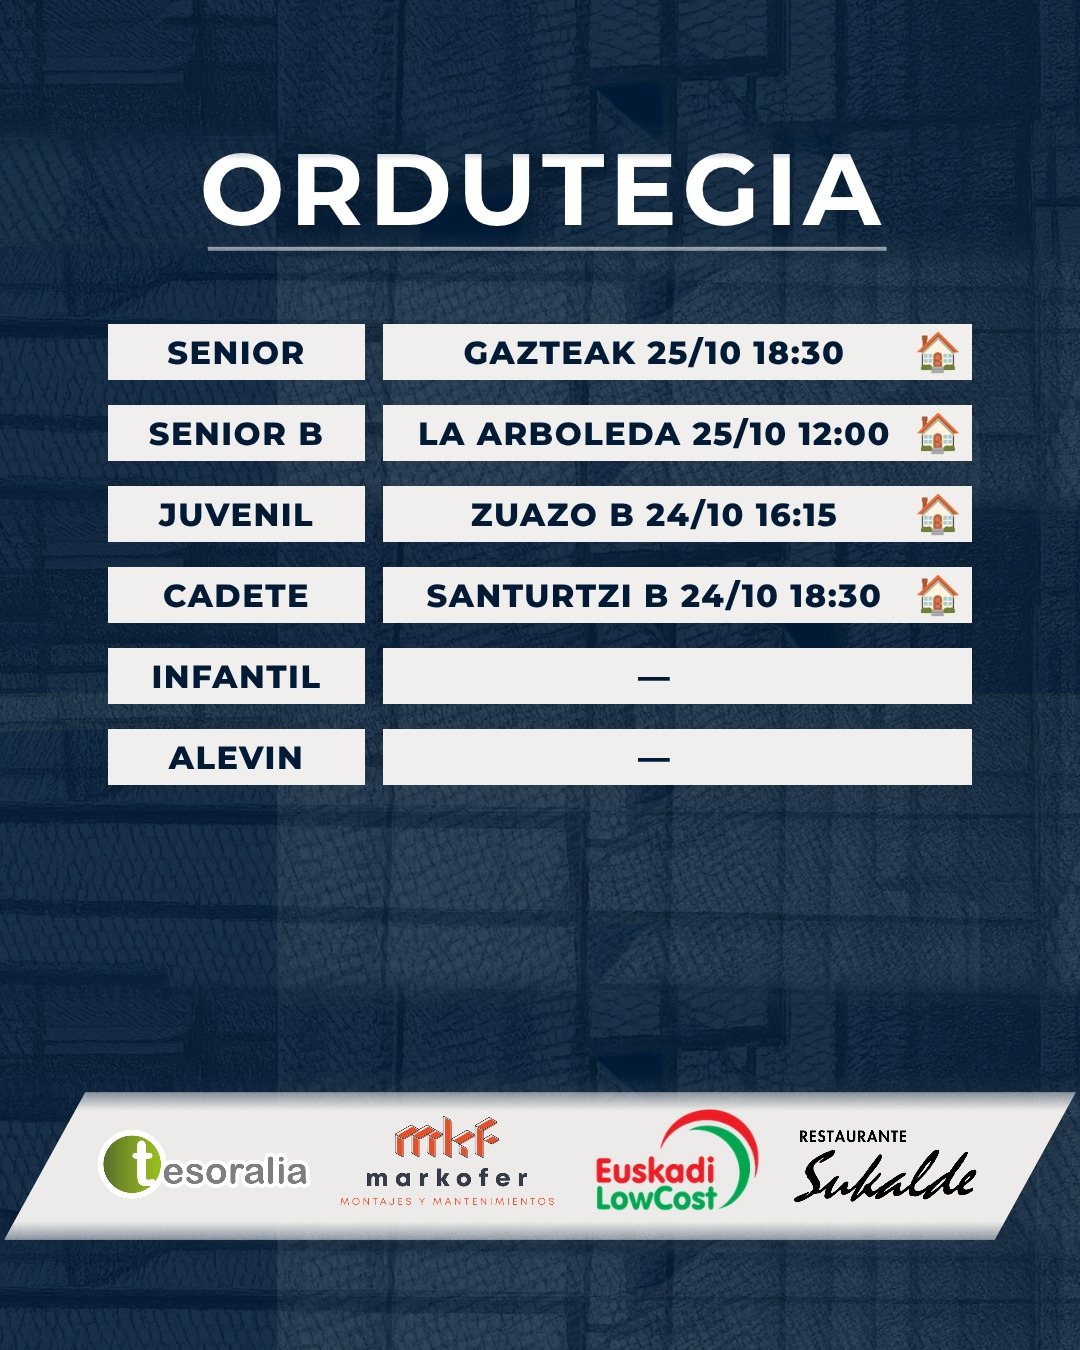
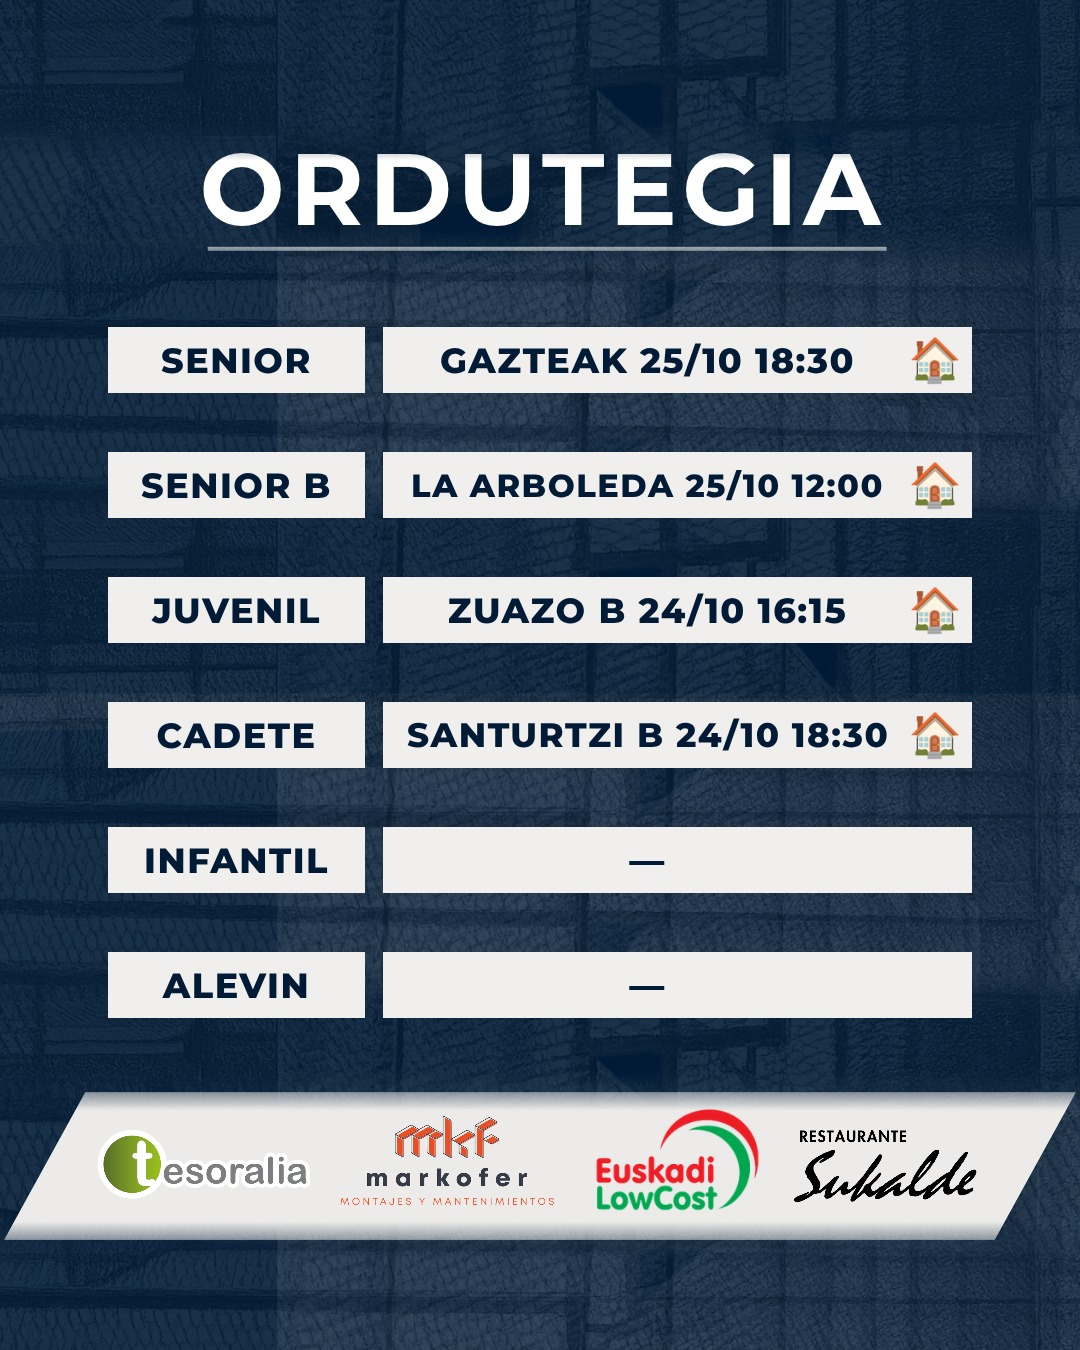
Filas de horarios y resultados repartidas por todo el hueco de la imagen
Claude-Session: https://claude.ai/code/session_01HGhHxNaaRD1kMFHjNqCnKz

Changed region(s): [[0.0917, 0.2489, 0.9167, 0.7778]]

diff --git a/redes/plantillas/estilos.css b/redes/plantillas/estilos.css
@@ -18,15 +18,15 @@ main { position: relative; height: 100%; display: flex; flex-direction: column; 
 
 .lienzo { position: absolute; inset: 0; width: 100%; height: 100%; }
 
-/* ------------------------------------------------ ORDUTEGIA (medidas de la plantilla de Canva) */
+/* ------------------------------------------------ ORDUTEGIA (anchos de la plantilla de Canva) */
 
-.ordutegia .fila { position: absolute; left: 0; height: 56px; width: 100%; }
-.ordutegia .cat, .ordutegia .dato { position: absolute; top: 0; height: 56px; display: flex; align-items: center;
-  justify-content: center; background: #f0efee; color: #011a36; font-weight: 800; font-size: 32px; letter-spacing: 1.5px; }
+.ordutegia .fila { position: absolute; left: 0; height: 66px; width: 100%; }
+.ordutegia .cat, .ordutegia .dato { position: absolute; top: 0; height: 66px; display: flex; align-items: center;
+  justify-content: center; background: #f0efee; color: #011a36; font-weight: 800; font-size: 35px; letter-spacing: 1.5px; }
 .ordutegia .cat { left: 108px; width: 257px; }
-.ordutegia .dato { left: 383px; width: 589px; padding: 0 70px 0 24px; }
+.ordutegia .dato { left: 383px; width: 589px; padding: 0 84px 0 24px; }
 .ordutegia .dato .texto { display: block; max-width: 100%; overflow: hidden; white-space: nowrap; text-align: center; }
-.ordutegia .icono { position: absolute; right: 12px; width: 44px; height: 44px; }
+.ordutegia .icono { position: absolute; right: 12px; width: 50px; height: 50px; }
 
 /* ------------------------------------------------ EMAITZAK (la cinta es la de la plantilla de Canva) */
 

diff --git a/redes/generar_redes.py b/redes/generar_redes.py
@@ -165,8 +165,20 @@ def pagina(cuerpo, formato, clase):
 
 # Dónde van las filas sobre los lienzos de Canva (preparar_fondos.py), en px desde arriba.
 # Son las medidas de las plantillas de Canva; en la historia, desplazadas como el título.
-FILAS_ORDUTEGIA = {"post": (324, None), "historia": (520, 1530)}   # primera fila (post) o zona donde centrarlas (historia); una cada 81 px
-ZONA_EMAITZAK = {"post": (284, 1152), "historia": (534, 1560)}   # de dónde a dónde pueden ir los resultados
+# Las filas se reparten por toda la zona entre el título y los patrocinadores (más separadas si hay pocas).
+ZONA_ORDUTEGIA = {"post": (300, 1045), "historia": (520, 1530)}
+ZONA_EMAITZAK = {"post": (290, 1150), "historia": (534, 1560)}
+ALTO_FILA = {"ordutegia": 66, "emaitzak": 80}
+PASO_MAXIMO = {"ordutegia": 125, "emaitzak": 200}
+
+
+def repartir(pieza, formato, n):
+    """Posición (px desde arriba) de cada fila: repartidas por la zona y centradas."""
+    desde, hasta = (ZONA_ORDUTEGIA if pieza == "ordutegia" else ZONA_EMAITZAK)[formato]
+    alto = ALTO_FILA[pieza]
+    paso = min(PASO_MAXIMO[pieza], (hasta - desde - alto) / max(n - 1, 1))
+    primera = desde + (hasta - desde - alto - paso * (n - 1)) / 2
+    return [round(primera + paso * i) for i in range(n)]
 
 
 def lienzo(pieza, formato):
@@ -179,6 +191,7 @@ def icono(nombre):
 
 def html_ordutegia(filas, config, formato):
     lineas = ""
+    posiciones = repartir("ordutegia", formato, len(filas))
     for i, (cat, p, equipo) in enumerate(filas):
         if p:
             hora = f" {p['hora']}" if p.get("hora") else ""
@@ -186,11 +199,7 @@ def html_ordutegia(filas, config, formato):
             dato += icono("casa" if en_casa(p, equipo) else "avion")
         else:
             dato = '<span class="texto">—</span>'
-        desde, hasta = FILAS_ORDUTEGIA[formato]
-        if hasta:
-            desde += (hasta - desde - (81 * (len(filas) - 1) + 56)) // 2
-        arriba = desde + 81 * i
-        lineas += f'<div class="fila" style="top:{arriba}px"><div class="cat">{html.escape(cat)}</div><div class="dato">{dato}</div></div>'
+        lineas += f'<div class="fila" style="top:{posiciones[i]}px"><div class="cat">{html.escape(cat)}</div><div class="dato">{dato}</div></div>'
     return pagina(lienzo("ordutegia", formato) + lineas, formato, "ordutegia")
 
 
@@ -199,16 +208,13 @@ def gol(n, lado):
 
 
 def html_emaitzak(filas, config, formato):
-    # Los resultados se reparten por la zona: juntos si son muchos, con más aire si son pocos
-    desde, hasta = ZONA_EMAITZAK[formato]
-    paso = min(150, (hasta - desde - 80) / max(len(filas) - 1, 1))
-    primera = desde + (hasta - desde - 80 - paso * (len(filas) - 1)) / 2
+    posiciones = repartir("emaitzak", formato, len(filas))
     fila = uri(os.path.join(REDES, "plantillas", "fila-emaitzak.png"))
     lineas = ""
     for i, (cat, p, equipo) in enumerate(filas):
         nuestro, otro = html.escape(cat), html.escape(corto(rival(p, equipo), config))
         local, visitante = (nuestro, otro) if en_casa(p, equipo) else (otro, nuestro)
-        lineas += (f'<div class="partido" style="top:{primera + paso * i:.0f}px"><img src="{fila}">'
+        lineas += (f'<div class="partido" style="top:{posiciones[i]}px"><img src="{fila}">'
                    f'<span class="equipo local ajustar">{local}</span><span class="equipo visitante ajustar">{visitante}</span>'
                    f'{gol(p["gl"], "l")}{gol(p["gv"], "v")}</div>')
     return pagina(lienzo("emaitzak", formato) + lineas, formato, "emaitzak")
